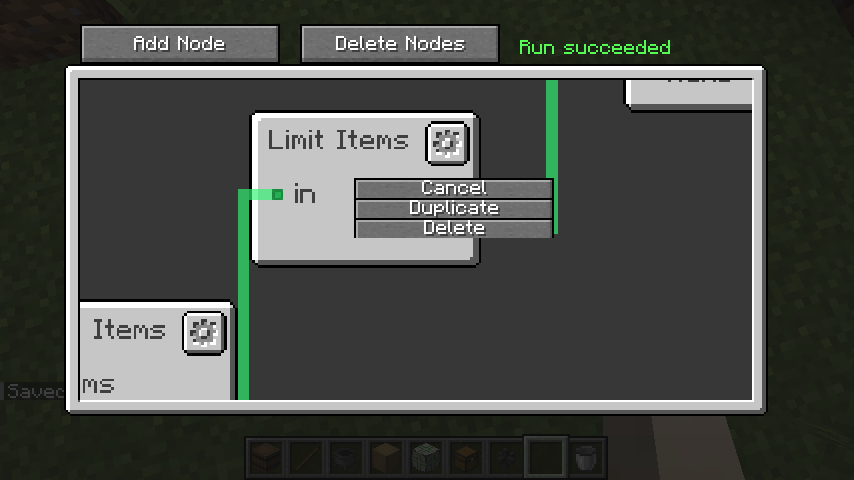
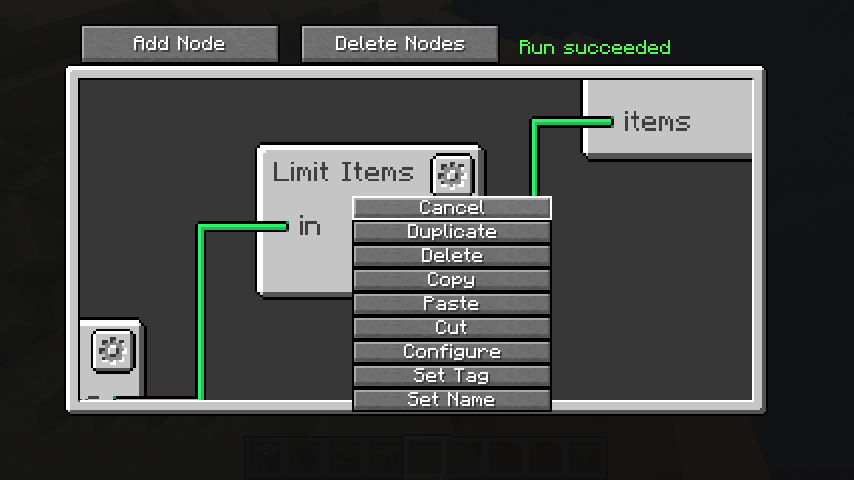
Nodeflow update and misc changes for 3.1.0

diff --git a/src/testmod/java/io/github/mattidragon/advancednetworking/test/GroupMoveTests.java b/src/testmod/java/io/github/mattidragon/advancednetworking/test/GroupMoveTests.java
@@ -1,0 +1,68 @@
+package io.github.mattidragon.advancednetworking.test;
+
+import io.github.mattidragon.advancednetworking.AdvancedNetworking;
+import io.github.mattidragon.advancednetworking.block.CableBlock;
+import io.github.mattidragon.advancednetworking.graph.node.item.storage.ItemSourceNode;
+import io.github.mattidragon.advancednetworking.graph.node.item.storage.ItemTargetNode;
+import io.github.mattidragon.advancednetworking.test.util.AdvancedNetworkingGameTest;
+import io.github.mattidragon.advancednetworking.test.util.AdvancedNetworkingTestContext;
+import io.github.mattidragon.nodeflow.graph.Graph;
+import net.minecraft.block.Blocks;
+import net.minecraft.block.LeverBlock;
+import net.minecraft.block.entity.DecoratedPotBlockEntity;
+import net.minecraft.block.enums.BlockFace;
+import net.minecraft.item.ItemStack;
+import net.minecraft.item.Items;
+import net.minecraft.test.GameTest;
+import net.minecraft.util.math.BlockPos;
+import net.minecraft.util.math.Direction;
+
+public class GroupMoveTests implements AdvancedNetworkingGameTest {
+    @GameTest(templateName = AdvancedNetworkingGameTest.EMPTY_4x4x4)
+    public void moveItemsWithGroup(AdvancedNetworkingTestContext context) {
+        var controllerPos = new BlockPos(1, 1, 1);
+        var controller = context.controller(controllerPos);
+        var cable1 = context.cable(controllerPos.east(), CableBlock.SOUTH, CableBlock.NORTH);
+        var cable2 = context.cable(controllerPos.east(2), CableBlock.SOUTH, CableBlock.NORTH);
+
+        cable1.setGroup(Direction.NORTH, "IN");
+        cable2.setGroup(Direction.NORTH, "IN");
+        cable1.setGroup(Direction.SOUTH, "OUT");
+        cable2.setGroup(Direction.SOUTH, "OUT");
+
+        context.setBlockState(controllerPos.up(), Blocks.LEVER.getDefaultState().with(LeverBlock.FACE, BlockFace.FLOOR));
+
+        context.setBlockState(controllerPos.east().south(), Blocks.DECORATED_POT);
+        context.setBlockState(controllerPos.east().north(), Blocks.DECORATED_POT);
+        context.setBlockState(controllerPos.east(2).south(), Blocks.DECORATED_POT);
+        context.setBlockState(controllerPos.east(2).north(), Blocks.DECORATED_POT);
+
+        context.getBlockEntity(controllerPos.east().north(), DecoratedPotBlockEntity.class)
+                .setStack(0, new ItemStack(Items.DIRT, 64));
+        context.getBlockEntity(controllerPos.east(2).north(), DecoratedPotBlockEntity.class)
+                .setStack(0, new ItemStack(Items.DIRT, 64));
+
+        var graph = new Graph(AdvancedNetworking.ENVIRONMENT);
+
+        var sourceNode = new ItemSourceNode(graph);
+        sourceNode.interfaceId = "IN";
+        sourceNode.isGroup = true;
+        graph.addNode(sourceNode);
+        var targetNode = new ItemTargetNode(graph);
+        targetNode.interfaceId = "OUT";
+        targetNode.isGroup = true;
+        graph.addNode(targetNode);
+
+        graph.addConnection(targetNode.getInputs()[0], sourceNode.getOutputs()[0]);
+        controller.setGraph(graph, null, null);
+
+        context.toggleLever(controllerPos.up());
+        context.waitAndRun(20, () -> {
+            context.expectPotWith(controllerPos.east().south(), Items.DIRT, 64);
+            context.expectPotWith(controllerPos.east(2).south(), Items.DIRT, 64);
+            context.expectEmptyPot(controllerPos.east().north());
+            context.expectEmptyPot(controllerPos.east(2).north());
+            context.complete();
+        });
+    }
+}

diff --git a/src/testmod/java/io/github/mattidragon/advancednetworking/test/util/AdvancedNetworkingTestContext.java b/src/testmod/java/io/github/mattidragon/advancednetworking/test/util/AdvancedNetworkingTestContext.java
@@ -5,7 +5,9 @@ import io.github.mattidragon.advancednetworking.block.CableBlockEntity;
 import io.github.mattidragon.advancednetworking.block.ControllerBlockEntity;
 import io.github.mattidragon.advancednetworking.registry.ModBlocks;
 import net.minecraft.block.entity.BlockEntity;
+import net.minecraft.block.entity.DecoratedPotBlockEntity;
 import net.minecraft.item.Item;
+import net.minecraft.registry.Registries;
 import net.minecraft.state.property.EnumProperty;
 import net.minecraft.test.GameTestException;
 import net.minecraft.test.GameTestState;
@@ -34,10 +36,36 @@ public class AdvancedNetworkingTestContext extends TestContext {
         }
     }
 
+    public void expectEmptyPot(BlockPos pos) {
+        try {
+            var blockPos = this.getAbsolutePos(pos);
+            var blockEntity = this.getWorld().getBlockEntity(blockPos);
+            if (blockEntity instanceof DecoratedPotBlockEntity pot && !pot.isEmpty()) {
+                throw new GameTestException("Container should be empty");
+            }
+        } catch (GameTestException e) {
+            throwPositionedException(e.getMessage(), pos);
+        }
+    }
+
     @Override
     public void expectContainerWith(BlockPos pos, Item item) {
         try {
             super.expectContainerWith(pos, item);
+        } catch (GameTestException e) {
+            throwPositionedException(e.getMessage(), pos);
+        }
+    }
+
+    public void expectPotWith(BlockPos pos, Item item, int count) {
+        try {
+            BlockPos blockPos = this.getAbsolutePos(pos);
+            BlockEntity blockEntity = this.getWorld().getBlockEntity(blockPos);
+            if (!(blockEntity instanceof DecoratedPotBlockEntity pot)) {
+                throw new GameTestException("Expected a container at " + pos + ", found " + Registries.BLOCK_ENTITY_TYPE.getId(blockEntity.getType()));
+            } else if (pot.count(item) != count) {
+                throw new GameTestException("Container should contain: " + item);
+            }
         } catch (GameTestException e) {
             throwPositionedException(e.getMessage(), pos);
         }

diff --git a/README.md b/README.md
@@ -14,7 +14,7 @@ There you can set the mode of each side of the cable. Make one side an interface
 Open up the controller, add some nodes and connect them. 
 Select your interface in the configuration of a node and you should have a working network.
 
-<img src="https://github.com/MattiDragon/AdvancedNetworking/raw/1.19.3/.github/media/room.png" width="50%"/>
+<img src="https://github.com/MattiDragon/AdvancedNetworking/raw/1.20.4/.github/media/room.png" width="50%"/>
 
 ## Features
 ### Cables
@@ -23,7 +23,7 @@ Click on them with a stick or any wrench from other mods to quickly change the m
 More advanced configuration can be accessed by sneak-clicking on the cable.
 Cables automatically connect to each other and controllers, but not other blocks. For those you will need to set the cable to interface mode.
 
-<img src="https://github.com/MattiDragon/AdvancedNetworking/raw/1.19.3/.github/media/cables.png" width="50%"/>
+<img src="https://github.com/MattiDragon/AdvancedNetworking/raw/1.20.4/.github/media/cables.png" width="50%"/>
 
 ### Controllers
 Controllers house your programs. They have a node based UI where you can perform routing of resources and all kinds of logic.
@@ -31,7 +31,7 @@ You can add nodes from the `Add Nodes` menu and it's submenus.
 Deleting nodes can be done by right-clicking and selecting `Delete` or using the `Delete Nodes` mode.
 Nodes can also be duplicated from the right-clicking menu. You can freely move around by dragging and zoom by scrolling in the editor. 
 
-<img src="https://github.com/MattiDragon/AdvancedNetworking/raw/1.19.3/.github/media/right_click_menu.png" width="50%"/>
+<img src="https://github.com/MattiDragon/AdvancedNetworking/raw/1.20.4/.github/media/right_click_menu.png" width="50%"/>
 
 ### Resource Transfer and Streams
 Some of the most important nodes are for transfer of energy, items and fluids. 
@@ -40,7 +40,7 @@ There are also nodes for getting the capacity and fill level of storages. These 
 The filter and limit nodes allows you to control what items are transferred. 
 The limit node sets a maximum number of items to transfer and the filter blocks certain items from passing through.
 
-<img src="https://github.com/MattiDragon/AdvancedNetworking/raw/1.19.3/.github/media/fluids.png" width="50%"/>
+<img src="https://github.com/MattiDragon/AdvancedNetworking/raw/1.20.4/.github/media/fluids.png" width="50%"/>
 
 ## Other Info
 ### Modpack permission
@@ -57,7 +57,6 @@ I intend to try and stay compatible with as many mods as possible, but might aba
 
 ### Porting and Forking
 You can read my policy on [forking and porting mods](https://gist.github.com/MattiDragon/6b9e71e8516447f53f0d5fb296ab8868).
-This mod will not be ported to anything older than 1.19.4 due to that version adding necessary client features.
 
 ## Licencing
 The mod is licensed under the Apache License, Version 2.0. 

diff --git a/changelog/3.1.0+1.20.4.md b/changelog/3.1.0+1.20.4.md
@@ -1,3 +1,12 @@
 * Make interfaces use names from attached containers as fallback
 * Add interface groups
   * They allow you to interact with multiple interfaces as one
+* Added support for color tagging nodes
+* Added support for setting a custom name for a node
+* Made tooltips only show on the config/error button
+* Fixed context menu sometimes going outside the screen
+* Generally improved the UI
+* Missing containers no longer cause an error.
+  * This was required to get groups working properly
+  * This is useful if you have containers that might sometimes be missing
+* Connection in the editor are now textured
